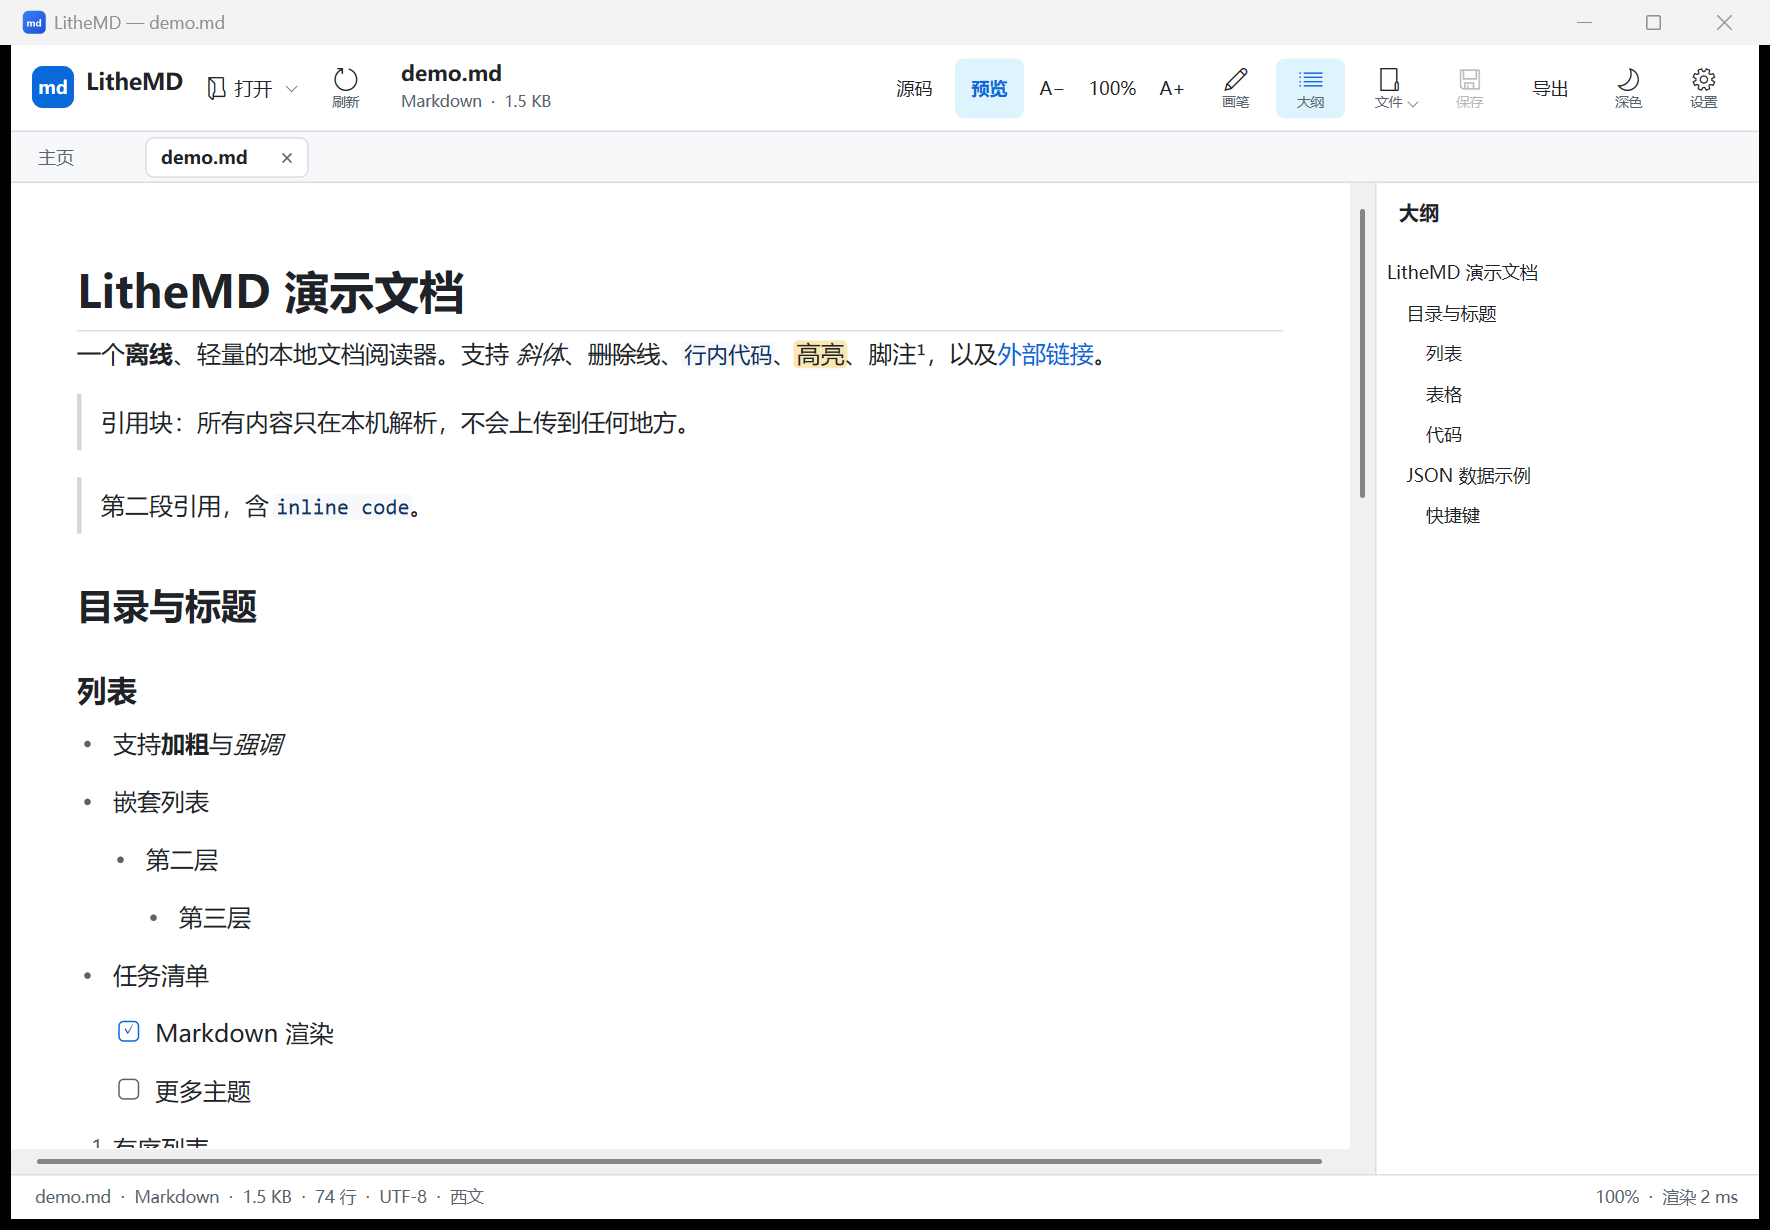
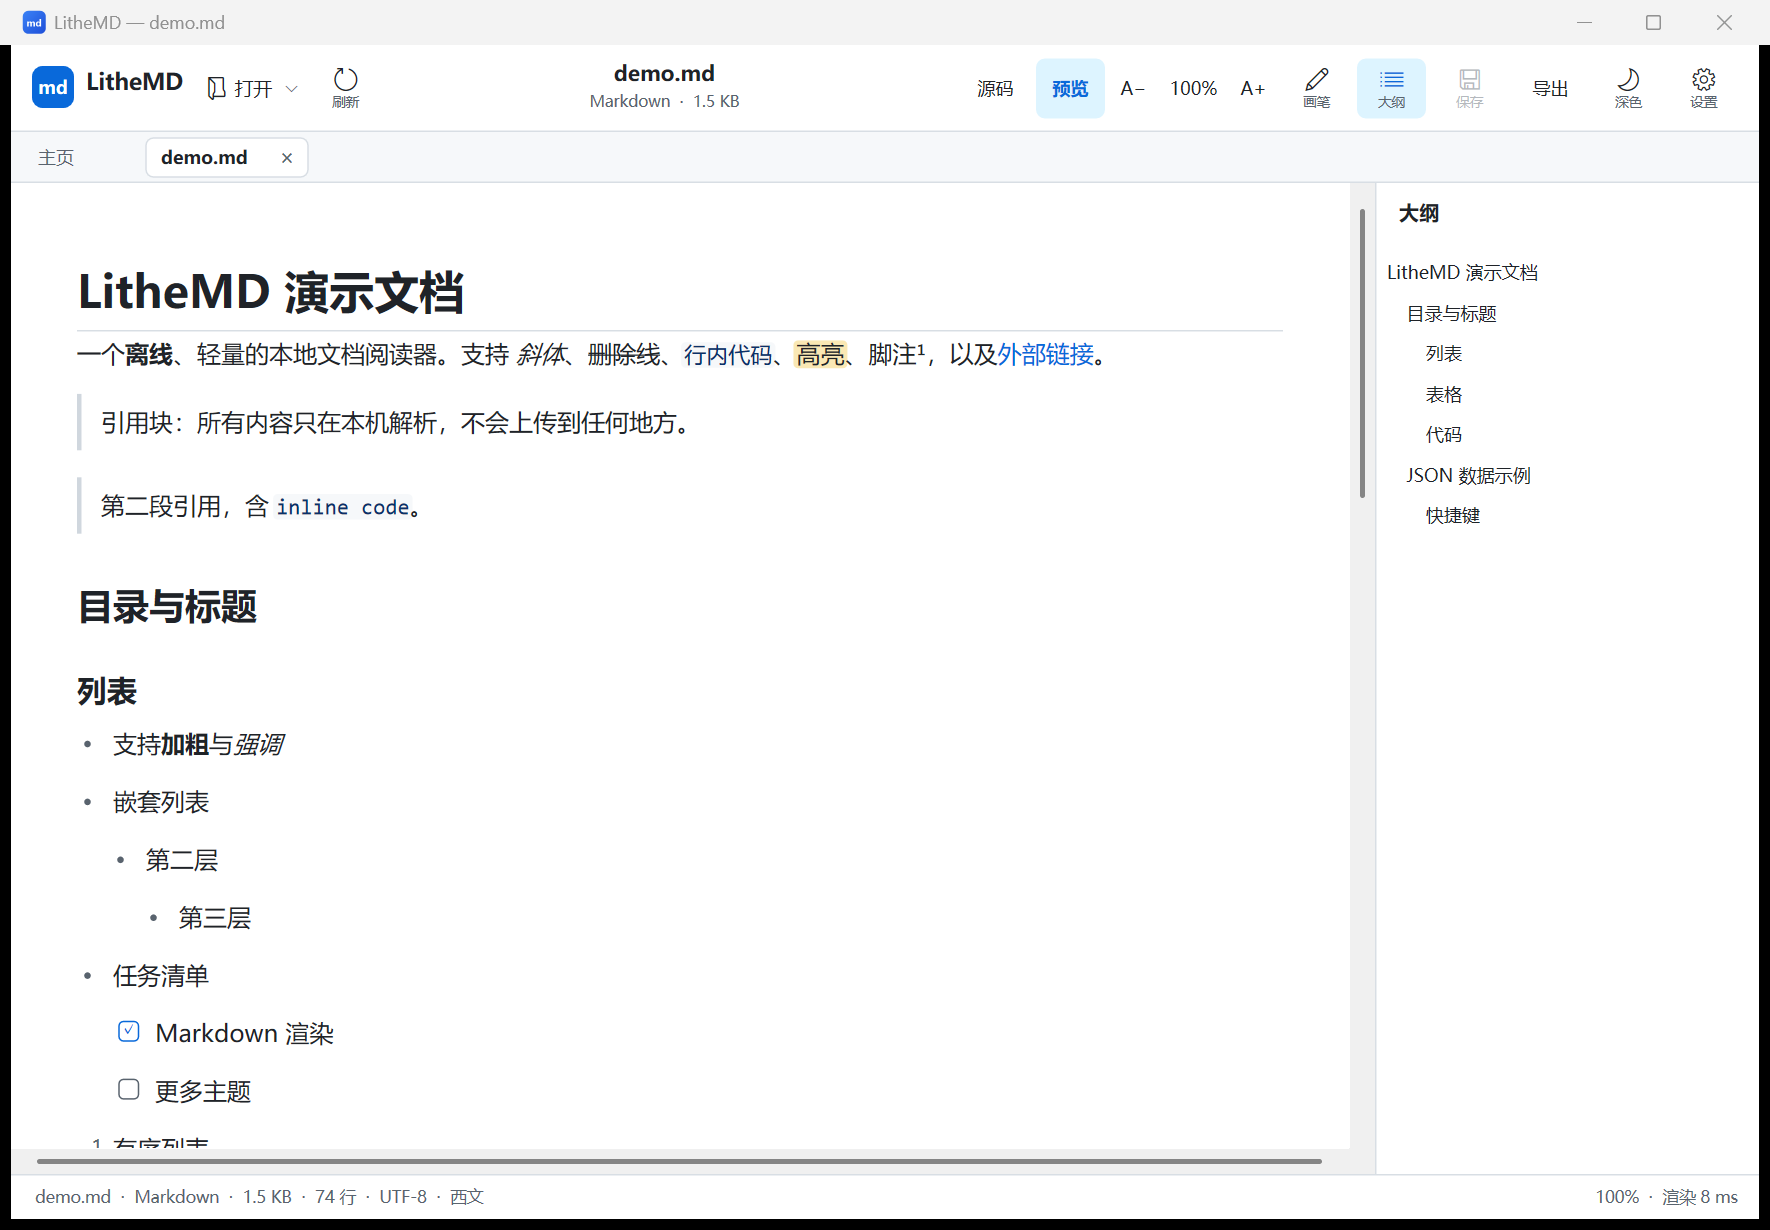
Release 2.4.1.5: remove duplicate workspace button

Changed region(s): [[0.4972, 0.0309, 0.8079, 0.1236], [0.2175, 0.0309, 0.3107, 0.0927], [0.3418, 0.0309, 0.404, 0.0927]]

diff --git a/src/app.cpp b/src/app.cpp
@@ -31,7 +31,6 @@ namespace {
 enum : int {
     CMD_OPEN = 1001,
     CMD_OPEN_MENU,
-    CMD_WORKSPACE_MENU,
     CMD_REFRESH_WORKSPACE,
     CMD_LOCATE,
     CMD_RELOAD,
@@ -1904,7 +1903,6 @@ private:
         case CMD_OPEN_FOLDER: OpenFolderDialog(); break;
         case CMD_PATH: ShowPathDialog(); break;
         case CMD_WORKSPACE: ToggleWorkspace(); break;
-        case CMD_WORKSPACE_MENU: ShowWorkspaceMenu(); break;
         case CMD_REFRESH_WORKSPACE:
             if (workspace_.HasRoot()) {
                 workspace_.Refresh();
@@ -2365,31 +2363,18 @@ private:
         std::wstring openFolder = TranslateUi(L"打开文件夹");
         AppendMenuW(menu, MF_STRING, CMD_OPEN, openFile.c_str());
         AppendMenuW(menu, MF_STRING, CMD_OPEN_FOLDER, openFolder.c_str());
-        SetMenuDefaultItem(menu, CMD_OPEN, FALSE);
-        POINT pt{};
-        GetCursorPos(&pt);
-        SetForegroundWindow(hwnd_);
-        int command = TrackPopupMenu(menu, TPM_RETURNCMD | TPM_RIGHTBUTTON | TPM_LEFTALIGN | TPM_TOPALIGN,
-                                     pt.x, pt.y, 0, hwnd_, nullptr);
-        DestroyMenu(menu);
-        if (command) Command(command);
-    }
-
-    void ShowWorkspaceMenu() {
-        HMENU menu = CreatePopupMenu();
-        if (!menu) return;
-        std::wstring openFolder = TranslateUi(L"打开文件夹");
-        AppendMenuW(menu, MF_STRING, CMD_OPEN_FOLDER, openFolder.c_str());
         if (workspace_.HasRoot()) {
             AppendMenuW(menu, MF_SEPARATOR, 0, nullptr);
             std::wstring toggle = TranslateUi(settings_.workspaceVisible ? L"隐藏工作区" : L"显示工作区");
             std::wstring refresh = TranslateUi(L"刷新工作区");
-            std::wstring locate = TranslateUi(L"定位当前文件");
             AppendMenuW(menu, MF_STRING, CMD_WORKSPACE, toggle.c_str());
             AppendMenuW(menu, MF_STRING, CMD_REFRESH_WORKSPACE, refresh.c_str());
-            if (!ActivePath().empty())
+            if (!ActivePath().empty()) {
+                std::wstring locate = TranslateUi(L"定位当前文件");
                 AppendMenuW(menu, MF_STRING, CMD_LOCATE, locate.c_str());
+            }
         }
+        SetMenuDefaultItem(menu, CMD_OPEN, FALSE);
         POINT pt{};
         GetCursorPos(&pt);
         SetForegroundWindow(hwnd_);
@@ -2910,9 +2895,6 @@ private:
         addRight(CMD_INK, 46, L"画笔", L"\uE70F", true, canInk && view && view->InkMode(), canInk, 50);
         addRight(CMD_TOC, 46, L"大纲", L"\uE8FD", true, outlineWanted_,
                  active_ >= 0 && view && view->CanOutline(), 80);
-        addRight(CMD_WORKSPACE_MENU, 50, L"文件", L"\uE8B7", true, settings_.workspaceVisible,
-                 true, 75);
-        right.back().dropdown = true;
         addRight(CMD_SAVE_NOTES, 50, L"保存", L"\uE74E", true, false,
                  view && view->CanSaveNotes() && view->HasUnsavedNotes(), 20);
         addRight(CMD_EXPORT, 50, L"导出", L"", false, false,

diff --git a/docs/ARCHITECTURE.md b/docs/ARCHITECTURE.md
@@ -120,7 +120,7 @@ ZipCrypto 密码优先按 UTF-8 尝试，再按系统 ANSI 尝试；AES 使用 U
 ### 2.7 UI 组件
 
 - `WorkspaceView`：左侧工作区树，展开/折叠、活动文件高亮、刷新和关闭。
-- 文件菜单：工具栏和欢迎页共用一个“打开 ▾”菜单；右上角“文件 ▾”提供打开文件夹、显示/隐藏工作区和刷新。
+- 文件菜单：工具栏和欢迎页共用一个“打开 ▾”菜单；已有工作区时在同一菜单追加显示/隐藏、刷新和定位当前文件，不再保留单独的右上角工作区按钮。
 - 最近工作区：设置保存最多 20 个根目录，欢迎页显示最近 3 个。
 - `ArchiveWindow`：独立顶层窗口，列表、预览、单条解压、全部解压、密码提示。
 - `ShowTextInput` / `PickFolder`：共用原生输入与选择器，不引入第三方 UI。

diff --git a/README.md b/README.md
@@ -82,7 +82,7 @@ PDF、Office 和图片等已支持的二进制文档不受影响。
 ## 主要特性
 
 - **统一打开菜单**：工具栏和欢迎页只保留一个“打开 ▾”按钮，可选择打开文件或文件夹；`Ctrl+O` / `Ctrl+Shift+O` 仍可直接执行
-- **工作区菜单**：右上角“文件 ▾”可打开新文件夹、显示/隐藏工作区、刷新或定位当前文件
+- **工作区操作**：同一个“打开 ▾”菜单在已有工作区时追加显示/隐藏、刷新和定位当前文件，不再保留单独的右上角入口
 - **多文件标签页**：同时打开多个文档，标签切换；关闭当前文件回到主页
 - 浅色 / 深色主题，覆盖正文、代码、表格、JSON 树、PDF 页框、图片、滚动条和设置窗口
 - 图片查看、未知格式按文本打开
